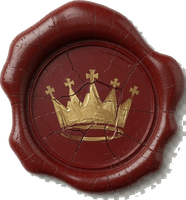
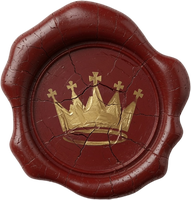
Update DailySpoon

diff --git a/src/components/ArticleImage.tsx b/src/components/ArticleImage.tsx
@@ -20,11 +20,11 @@ import { useState } from "react";
  *
  * medal, if true, pins a wax-seal badge on the top-left corner of the photo
  * (feed decorated as "médaillé" in /admin/categories) — vraie image
- * (public/badges/wax-seal.png, fond détouré à partir du visuel fourni par
- * l'utilisateur — érosion + décontamination des pixels de bord pour éliminer
- * le liseré blanchâtre résiduel d'un premier détourage trop naïf). Hauteur
- * totale fixée à 53px (= hauteur de l'ancien badge médaille [71px] réduite de
- * 25%), largeur automatique (ratio d'origine conservé).
+ * (public/badges/wax-seal.png, PNG déjà détouré fourni tel quel par
+ * l'utilisateur — juste recadré à son contenu réel et redimensionné, aucun
+ * traitement de couleur/transparence). Hauteur totale fixée à 53px (= hauteur
+ * de l'ancien badge médaille [71px] réduite de 25%), largeur automatique
+ * (ratio d'origine conservé).
  * Entièrement À L'INTÉRIEUR de la photo (ne la chevauche plus) : 5px de
  * marge avec le bord haut, 5px avec le bord gauche.
  *